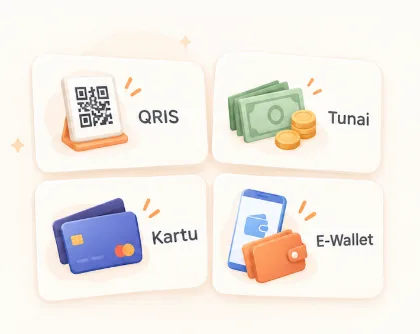
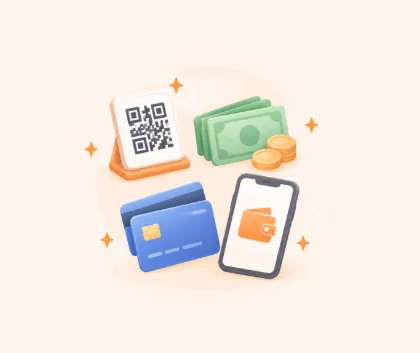
feat(order): the payment and confirmation illustrations speak every language and sit flush
Jay re-exported both from a brief that asked for no text at all and a solid
#FEF4EC ground.

THE PAYMENT PICTURE HAS NO WORDS NOW. The old one read QRIS / Tunai / Kartu /
E-Wallet — and even translated, "QRIS" is Indonesia's QR standard: Singapore
uses PayNow, Malaysia DuitNow, the Philippines QR Ph. A plain QR code, blank
notes and coins, a card and a phone read the same in all four markets.

⚠ THE GROUND DRIFTED, AS IMAGE MODELS DO. Both came back on ~#FEF2E5 rather
than #FEF4EC, darker at the corners — every one of ~16,000 sampled border pixels
off, worst by 11 levels, which on the warm panel is a faint dark rectangle. The
PNG masters are left exactly as delivered; the WebP the app loads is corrected:
pixels within 6 levels of the measured ground become exactly #FEF4EC, and the
correction fades to nothing by 34, so the subject, halo and sparkles keep their
shading. Measured on the shipped files: every border pixel exact, worst Δ0.

The confirmation sheet loaded order-success.png directly, and the re-export is
941KB. It loads order-success.webp now — 4KB — and the PNG master joins the
other five as gitignored, so it no longer ships on every deploy.

Also: QA failed at 00:17 on "the Completed tab reads newest first". The tab was
sorted correctly; the spec compared printed times as minutes-past-midnight, so a
sale at 00:14 (14) read as older than one at 22:47 (1367). It asserts the card
order by seeded id now — clock-independent, verified to fail when flipped.

diff --git a/tests/pos-orders-board.spec.js b/tests/pos-orders-board.spec.js
@@ -172,15 +172,15 @@ test('the Completed tab reads newest first, not longest settled', async ({ page 
     ]);
     expect(rows).toHaveLength(2);
     expect(rows.every((r) => r.level === null), 'a settled order carries no clock').toBe(true);
-    const ages = await page.locator('.pos-ocard-when').allInnerTexts();
-    const times = ages.map((t) => t.trim()).filter(Boolean);
-    // The newest is first: its timestamp is later in the day than the other's.
-    expect(times.length).toBe(2);
-    const mins = times.map((t) => {
-        const m = t.match(/(\d{1,2})[.:](\d{2})/);
-        return m ? Number(m[1]) * 60 + Number(m[2]) : 0;
-    });
-    expect(mins[0], 'the Completed tab is sorted oldest-first').toBeGreaterThan(mins[1]);
+    // ⚠ BY WHICH ORDER, NOT BY WHAT THE CLOCK SAYS. This compared the printed
+    // times as minutes-past-midnight — so between midnight and 01:30 the sale
+    // rung up 3 minutes ago read "00:14" (14) against "22:47" (1367) for the one
+    // from 90 minutes ago, and a correctly sorted tab failed as oldest-first.
+    // It failed QA at 00:17. Same nocturnal class as __posSeedBoard's own fix.
+    // seed-1 is the 3-minute sale; newest first means its card leads.
+    const order = await page.locator('#pos-orders-grid .pos-ocard')
+        .evaluateAll((els) => els.map((e) => e.dataset.orderCard));
+    expect(order, 'the Completed tab is sorted oldest-first').toEqual(['seed-1', 'seed-0']);
 });
 
 test('the filter panel is the dashboard component, and sorts what it says', async ({ page }) => {

diff --git a/tests/customer-ordering.spec.js b/tests/customer-ordering.spec.js
@@ -449,7 +449,8 @@ test.describe('QR customer ordering', () => {
         // ⚠ ABSOLUTE. Under `/t/<token>` a relative `assets/…` resolves to
         // `/t/assets/…`, which the catch-all rewrite serves as 200-with-HTML —
         // it would fail while LOOKING like it loaded.
-        expect(await art.getAttribute('src')).toBe('/assets/images/order-success.png');
+        // WebP since 2026-09-11: the re-exported PNG master is 941KB; this is 4KB.
+        expect(await art.getAttribute('src')).toBe('/assets/images/order-success.webp');
         // And it DECODES — a broken image passes every assertion above.
         expect(await art.evaluate((el) => el.naturalWidth)).toBeGreaterThan(0);
         // The drawn tick it replaced is gone.

diff --git a/order.html b/order.html
@@ -2612,7 +2612,7 @@ html.kb-open .welcome-art { display: none; }
              the catch-all rewrite serves as 200-with-HTML rather than 404 — it
              would fail while LOOKING like it loaded. -->
         <div class="art-field">
-            <img class="done-art" src="/assets/images/order-success.png" alt="" decoding="async">
+            <img class="done-art" src="/assets/images/order-success.webp" alt="" decoding="async">
         </div>
         <h2 class="done-title" id="done-title" data-i18n="done.title">Pesanan terkirim</h2>
         <p class="done-sub" id="done-sub" data-i18n="done.sub">Dapur sudah menerima pesanan Anda.</p>
